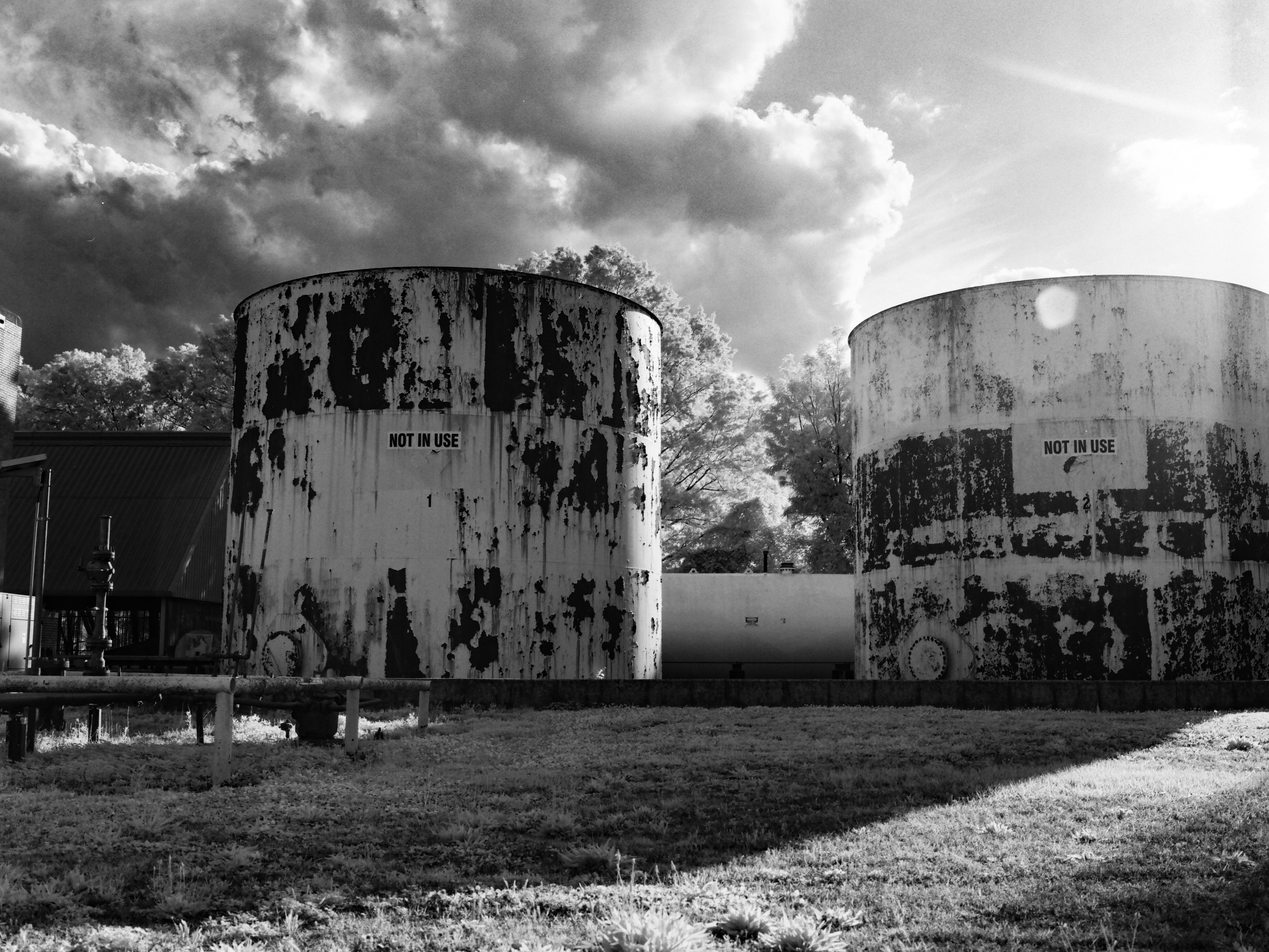
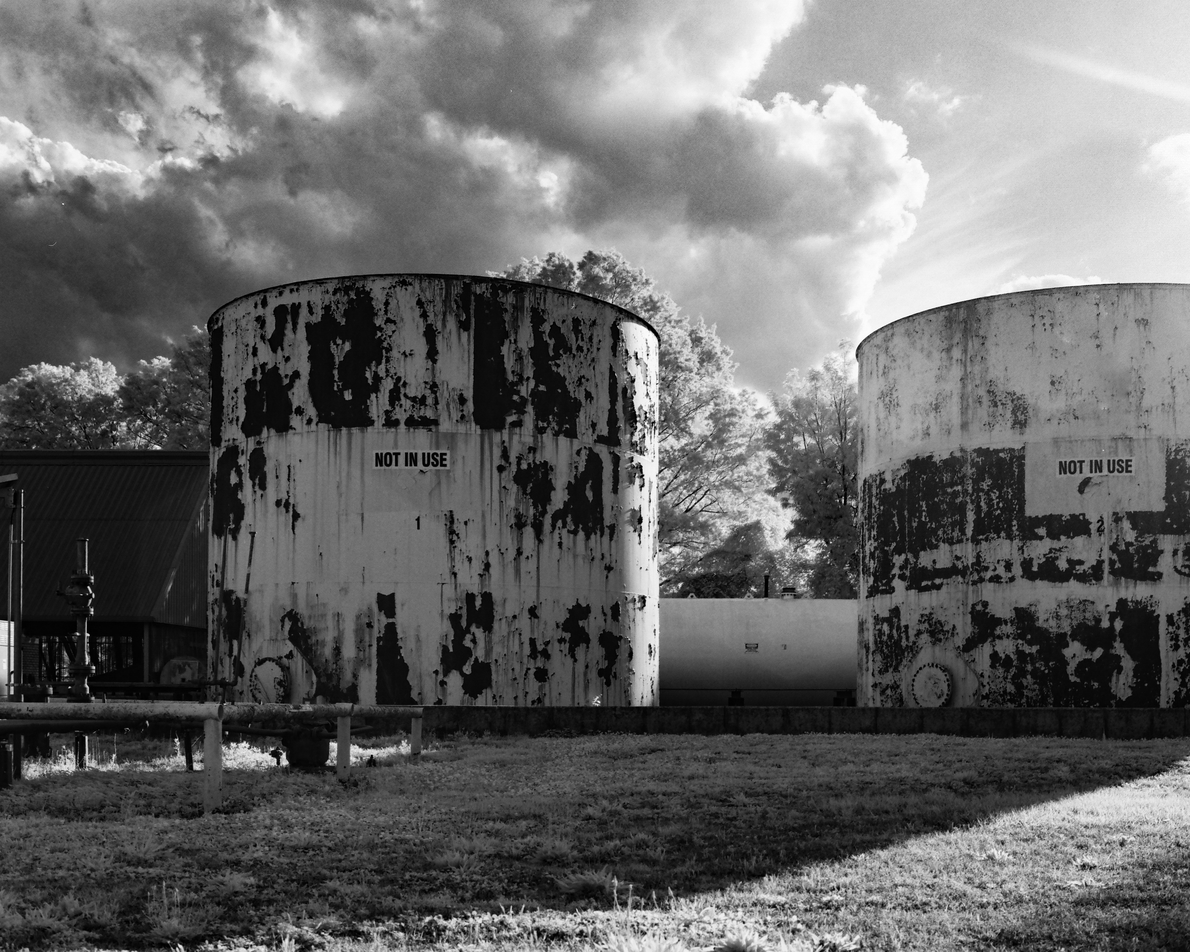
Grow the portfolio to 23 frames: eight admissions, four retirements
Panel-assessed additions (4-lens fine-art review + photographer
overrides): Paddler Lake McDonald, Beach Club, Not In Use (tank
re-edit), Turquoise Wall, Corner Hard Sun, Avalanche Creek, Going to
the Sun, Polaris.

Retired from the page (stay in the library): Park First Snow, Road
with Dog, Doorway Mission, Mesquite Hill Country.

Resequenced as one continuous story, no movement breaks: dark hours
(stars + fountain) - blue morning (Azure + Corner, Beach Club) - the
loud town (wall diptych, Kings) - out into the wild (Plaza + Gorge,
God Rays) - the turn (Chesterfield + Lamppost glow weld, Snow
Umbrellas promoted to full) - the stark B&W west (Clowns + de Young,
Smokestack, Paddler + Low Water, Tanks + White Tower) - home (One
Window). Hero reads 23 FRAMES; .turn spacing removed.

diff --git a/src/styles/global.css b/src/styles/global.css
@@ -146,9 +146,6 @@ a { color: inherit; }
    Spreads
    ========================================================= */
 .spread { padding: var(--spread-gap) 0 0; }
-/* Movement boundary — the "page turn": extra breathing room so a tonal
-   rupture (dawn→chroma, autumn→snow, color→B&W) reads as intentional. */
-.spread.turn { padding-top: calc(var(--spread-gap) * 1.75); }
 
 .spread .tile {
   appearance: none; background: none; border: 0; padding: 0;
